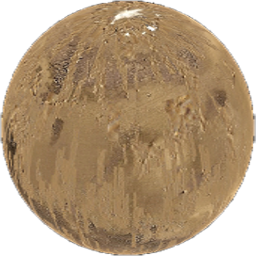
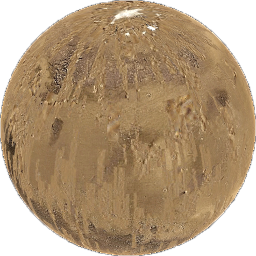
화성 완성

diff --git a/public/javascripts/game.js b/public/javascripts/game.js
@@ -9,7 +9,7 @@ for(var i =0; i < 7; i++){
   resource.earth[i].src = "/images/planet/blue/"+(i+1)+".png";
 }
 
-for(var i = 0; i < 1; i++){
+for(var i = 0; i < 18; i++){
   resource.mars[i] = new Image();
   resource.mars[i].src = "/images/planet/red/"+(i+1)+".png";
 }
@@ -225,13 +225,15 @@ Node.prototype.draw = function(ctx, dt){
 
   switch(this.type){
     case "earth" :
-      var index = parseInt(this.animateTime/(this.rotationPeriod/resource.earth.length)) || 0;
-      var img = resource.earth[index];
-      ctx.drawImage(img, this.x - this.r, this.y-this.r, this.r*2, this.r*2);
-      break;
+	var index = parseInt(this.animateTime/(this.rotationPeriod/resource.earth.length)) || 0;
+	var img = resource.earth[index];
+	ctx.drawImage(img, this.x - this.r, this.y-this.r, this.r*2, this.r*2);
+	break;
     case "mars":
-      ctx.drawImage(resource.mars[0], this.x - this.r, this.y-this.r, this.r*2, this.r*2);
-      break;
+    	var index = parseInt(this.animateTime/(this.rotationPeriod/resource.mars.length)) || 0;
+    	var img = resource.mars[index];
+      	ctx.drawImage(img, this.x - this.r, this.y-this.r, this.r*2, this.r*2);
+      	break;
     case "moon":
       ctx.drawImage(resource.moon[0], this.x - this.r, this.y-this.r, this.r*2, this.r*2);
     break;
